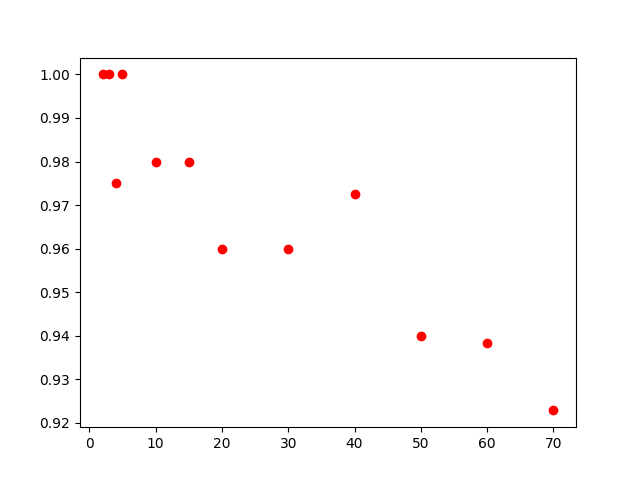
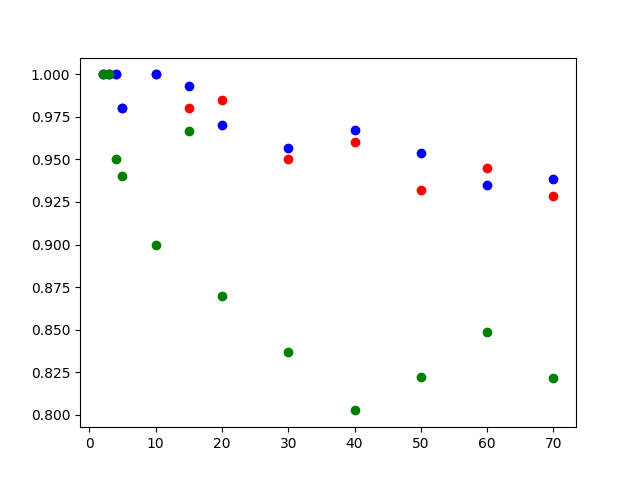
extend accuracy measurements with different classifiers

diff --git a/src/plot_accuracy_num_samples.py b/src/plot_accuracy_num_samples.py
@@ -6,6 +6,7 @@ from Tkinter import *
 import matplotlib.pyplot as plt
 import pickle
 from sklearn.svm import SVC
+from sklearn import linear_model
 import random
 import time
 import tensorflow as tf
@@ -20,6 +21,8 @@ sess = tf.Session()
 
 face_mind = FaceMind(sess)
 
+loss_types =['log', 'modified_huber']
+
 def main():
   global sess
   with sess as sess:
@@ -29,11 +32,13 @@ def main():
     face_mind.load_model(args.model)
     test_sizes = range(1, max_samples+1)
     results = []
+    results_all = {}
     dataset = facenet.get_dataset(args.data_dir)
     for test_size in test_sizes:
       train_set, test_set = split_dataset(dataset, test_size+verify_on, test_size)
       face_mind.train_on_dataset(train_set)
       paths, labels = facenet.get_image_paths_and_labels(test_set)
+      # SVM model fitting
       print("Verifying on %i paths" % len(paths))
       res = face_mind.classify_all(paths)
       correct = 0.0
@@ -46,10 +51,26 @@ def main():
       print("Accuracy for %i: %f" % (test_size, acc))
       results.append(acc)
 
-    print("|Num Samples| "+" | ".join(map(str,test_sizes))+"|")
-    print("|-----------|"+"---|"*len(test_sizes))
-    print("| Accuracy  | "+" | ".join(map(str,results))+"|")
-    plt.plot(test_sizes, results, 'ro')
+      for t in loss_types:
+        # linear model fitting
+        face_mind.model = linear_model.SGDClassifier(loss=t)
+        face_mind.fit()
+        res = face_mind.classify_all(paths)
+        correct = 0.0
+        for i in range(0,len(res)):
+          prediction, score = res[i]
+          if prediction == face_mind.class_names[labels[i]]:
+            correct += 1
+        acc = correct/len(res)
+        results_all.setdefault(t, [])
+        results_all[t].append(acc)
+
+    print("|Num Samples   | "+" | ".join(map(str,test_sizes))+"|")
+    print("|--------------|"+"---|"*len(test_sizes))
+    print("| Accuracy SVM | "+" | ".join(map(str,results))+"|")
+    print("| Accuracy LOG | "+" | ".join(map(str,results_all['log']))+"|")
+    print("| Accuracy HUB | "+" | ".join(map(str,results_all['modified_huber']))+"|")
+    plt.plot(test_sizes, results, 'ro', test_sizes, results_all['log'], 'bo', test_sizes, results_all['modified_huber'], 'go')
     plt.show()
 
 def split_dataset(dataset, min_nrof_images_per_class, nrof_train_images_per_class):

diff --git a/src/plot_accuracy_num_classes.py b/src/plot_accuracy_num_classes.py
@@ -6,6 +6,7 @@ from Tkinter import *
 import matplotlib.pyplot as plt
 import pickle
 from sklearn.svm import SVC
+from sklearn import linear_model
 import random
 import time
 import tensorflow as tf
@@ -19,6 +20,7 @@ tf.Graph().as_default()
 sess = tf.Session()
 
 face_mind = FaceMind(sess)
+loss_types =['log', 'modified_huber']
 
 def main():
   global sess
@@ -29,6 +31,7 @@ def main():
     face_mind.load_model(args.model)
     test_sizes = [2,3,4,5,10,15,20,30,40,50,60,70]
     results = []
+    results_all = {}
     dataset = facenet.get_dataset(args.data_dir)
     for test_size in test_sizes:
       train_set, test_set = split_dataset(dataset, verify_on, num_samples, test_size)
@@ -46,10 +49,26 @@ def main():
       print("Accuracy for %i: %f" % (test_size, acc))
       results.append(acc)
 
-    print("|Num Classes| "+" | ".join(map(str,test_sizes))+"|")
-    print("|-----------|"+"---|"*len(test_sizes))
-    print("| Accuracy  | "+" | ".join(map(str,results))+"|")
-    plt.plot(test_sizes, results, 'ro')
+      for t in loss_types:
+        # linear model fitting
+        face_mind.model = linear_model.SGDClassifier(loss=t)
+        face_mind.fit()
+        res = face_mind.classify_all(paths)
+        correct = 0.0
+        for i in range(0,len(res)):
+          prediction, score = res[i]
+          if prediction == face_mind.class_names[labels[i]]:
+            correct += 1
+        acc = correct/len(res)
+        results_all.setdefault(t, [])
+        results_all[t].append(acc)
+
+    print("|Num Samples   | "+" | ".join(map(str,test_sizes))+"|")
+    print("|--------------|"+"---|"*len(test_sizes))
+    print("| Accuracy SVM | "+" | ".join(map(str,results))+"|")
+    print("| Accuracy LOG | "+" | ".join(map(str,results_all['log']))+"|")
+    print("| Accuracy HUB | "+" | ".join(map(str,results_all['modified_huber']))+"|")
+    plt.plot(test_sizes, results, 'ro', test_sizes, results_all['log'], 'bo', test_sizes, results_all['modified_huber'], 'go')
     plt.show()
 
 def split_dataset(dataset, nrof_varification_images_per_class, nrof_train_images_per_class, nrof_classes):
